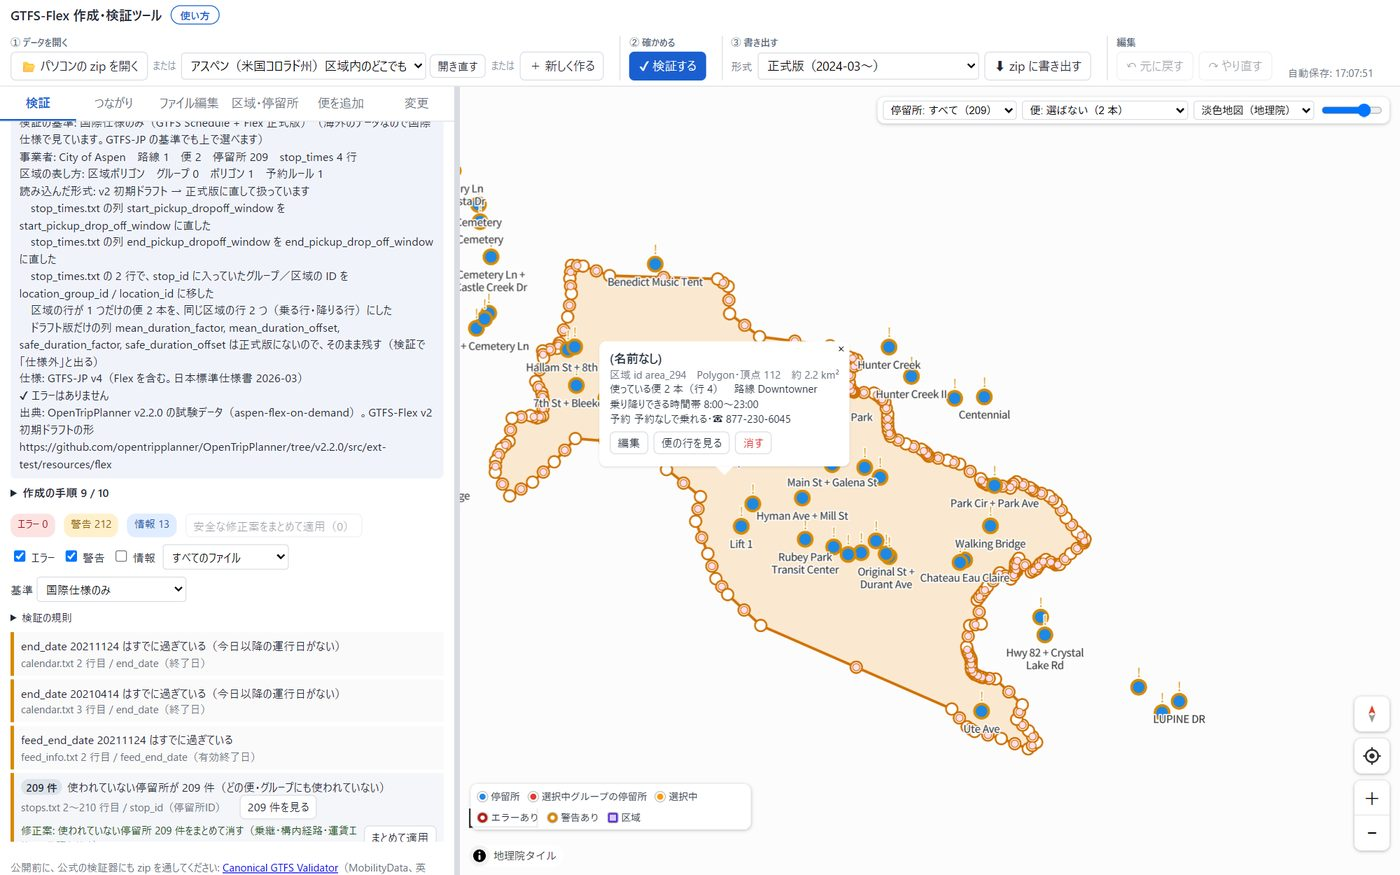
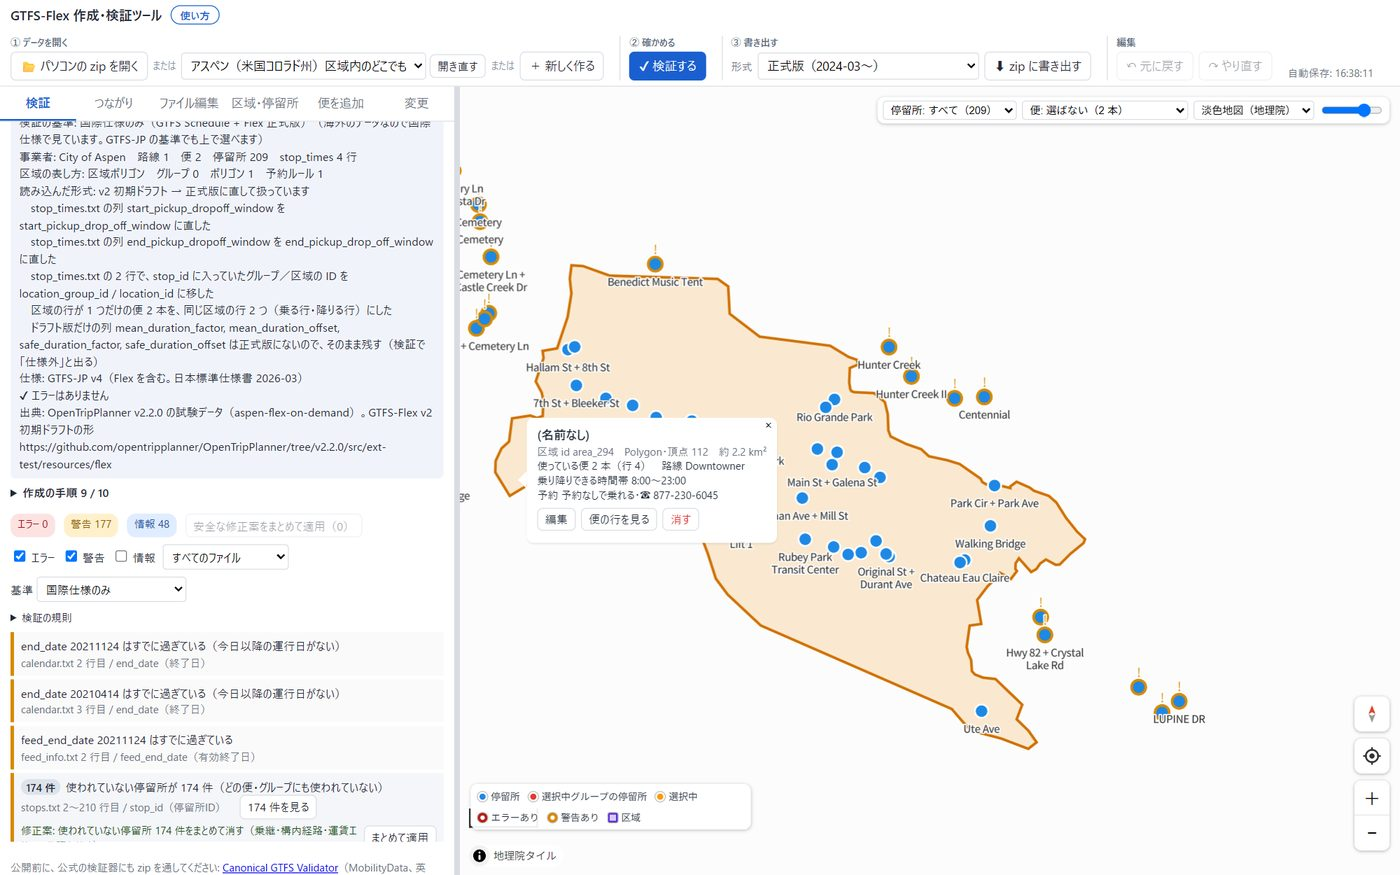
区域の頂点は形を直すときだけ

diff --git a/js/app.js b/js/app.js
@@ -45,7 +45,7 @@
       S.feed.locations.features.push({ type: 'Feature', id, properties: { stop_name: '新しい区域' }, geometry: { type: 'Polygon', coordinates: [ccw(ring)] } });
       S.loc = S.feed.locations.features.length - 1;
       changed(); renderZones(); refreshMap();
-      $('#btnLocDraw').classList.remove('on');
+      M.setMode('editShape'); // 描き終えたら、そのまま頂点を出して形を直せるように（Esc か「形を直す」で終わる）
     },
     onVertexMoved(ring, index, ll, done) {
       const f = S.feed.locations && S.feed.locations.features[S.loc]; if (!f) return;
@@ -82,9 +82,10 @@
   $('#map').appendChild(modeBadge);
   $('#map').addEventListener('modechange', e => {
     const m = e.detail;
-    const text = { freehand: '区域をなぞって描きます: 左ボタンを押したまま（指 1 本で）外周をなぞり、離すと頂点に変わります。Esc で中止', draw: '区域を描いています: クリックで頂点、ダブルクリックか Enter で確定、Esc で中止', addStop: '地図をクリックした所に停留所を追加します', moveStop: '停留所をドラッグして動かせます', pickStops: '停留所をクリックするとグループに出し入れします' }[m];
+    if (m !== 'editShape') closeVertPopup();
+    const text = { editShape: '区域の形を直しています: 頂点をドラッグで動かす・辺の真ん中の点を押して頂点を足す・頂点を押して消す。Esc か「形を直す」で終わる', freehand: '区域をなぞって描きます: 左ボタンを押したまま（指 1 本で）外周をなぞり、離すと頂点に変わります。Esc で中止', draw: '区域を描いています: クリックで頂点、ダブルクリックか Enter で確定、Esc で中止', addStop: '地図をクリックした所に停留所を追加します', moveStop: '停留所をドラッグして動かせます', pickStops: '停留所をクリックするとグループに出し入れします' }[m];
     modeBadge.style.display = text ? 'block' : 'none'; modeBadge.textContent = text || '';
-    for (const [id, mode] of [['#btnLocDraw', 'draw'], ['#btnLocFree', 'freehand'], ['#btnStopAdd', 'addStop'], ['#btnStopMove', 'moveStop'], ['#btnPickStops', 'pickStops']]) $(id).classList.toggle('on', m === mode);
+    for (const [id, mode] of [['#btnLocDraw', 'draw'], ['#btnLocFree', 'freehand'], ['#btnLocEdit', 'editShape'], ['#btnStopAdd', 'addStop'], ['#btnStopMove', 'moveStop'], ['#btnPickStops', 'pickStops']]) $(id).classList.toggle('on', m === mode);
   });
   function toggleMode(m) { M.setMode(M.getMode() === m ? 'none' : m); }
 
@@ -318,6 +319,7 @@
       const conv = window.FlexVersions.toCanonical(feed);
       feed.flexVersion = conv.version; feed.conversionNotes = conv.notes;
     }
+    if (M.getMode() !== 'none') M.setMode('none'); // 描く・形を直すなどの途中で別のデータを開いたら終える
     S.feed = feed; S.name = name; S.dirty = false; S.hlRow = null; S.page = 0; S.filter = '';
     closePopups(); // 前のデータの吹き出しを残さない
     S.stopView = 'all'; S.viewTrip = '';
@@ -1270,6 +1272,7 @@
   $('#locSelect').addEventListener('change', e => { S.loc = +e.target.value; renderZones(); refreshMap(false); const f = S.feed.locations.features[S.loc]; if (f) M.fitTo([f]); });
   $('#btnLocDraw').addEventListener('click', () => { if (!S.feed) return; toggleMode('draw'); });
   $('#btnLocFree').addEventListener('click', () => { if (!S.feed) return; toggleMode('freehand'); });
+  $('#btnLocEdit').addEventListener('click', () => { if (!S.feed) return; if (M.getMode() !== 'editShape' && !(S.feed.locations && S.feed.locations.features[S.loc])) { alert('形を直す区域を選んでください（区域の選択欄か、地図で区域を押す）'); return; } toggleMode('editShape'); });
   $('#btnLocDel').addEventListener('click', () => { if (S.feed && S.feed.locations) deleteLocation(S.loc); });
   $('#btnStopAdd').addEventListener('click', () => { if (!S.feed) return; toggleMode('addStop'); if (M.getMode() === 'addStop') { S.stop = null; if (stopPopup) { stopPopup.remove(); stopPopup = null; } refreshMap(false); } renderStopForm(); });
   $('#map').addEventListener('modechange', () => { renderStopForm(); if (S.feed && (S.stopView !== 'all' || S.viewTrip)) refreshMap(false); });
@@ -1361,7 +1364,7 @@
   }
   document.addEventListener('keydown', e => {
     const tg = e.target && e.target.tagName;
-    if ((e.key === 'Delete' || e.key === 'Backspace') && M.state.selVert && M.getMode() === 'none' && !/^(INPUT|TEXTAREA|SELECT)$/.test(tg || '') && !(e.target && e.target.isContentEditable)) {
+    if ((e.key === 'Delete' || e.key === 'Backspace') && M.state.selVert && M.getMode() === 'editShape' && !/^(INPUT|TEXTAREA|SELECT)$/.test(tg || '') && !(e.target && e.target.isContentEditable)) {
       if (deleteVertex(M.state.selVert.ring, M.state.selVert.index)) e.preventDefault();
     }
   });

diff --git a/index.html b/index.html
@@ -5,7 +5,7 @@
 <meta name="viewport" content="width=device-width, initial-scale=1">
 <title>GTFS-Flex 作成・検証ツール</title>
 <link rel="stylesheet" href="https://cdnjs.cloudflare.com/ajax/libs/maplibre-gl/4.7.1/maplibre-gl.min.css">
-<link rel="stylesheet" href="css/style.css?v=e1486c1-mvc2zatu">
+<link rel="stylesheet" href="css/style.css?v=76a890c-mvc34z37">
 </head>
 <body>
 <header class="topbar">
@@ -137,10 +137,11 @@
         <select id="locSelect"></select>
         <button id="btnLocDraw" class="btn small toggle" title="地図をクリックした所を頂点にする（ダブルクリックか Enter で確定）">地図に描く</button>
         <button id="btnLocFree" class="btn small toggle" title="左ボタンを押したまま外周をなぞる。離すと頂点に変わる">なぞって描く</button>
+        <button id="btnLocEdit" class="btn small toggle" title="選んでいる区域の頂点を出して、動かす・足す・消す（Esc で終わる）">形を直す</button>
         <button id="btnLocDel" class="btn small danger">削除</button>
       </div>
       <div id="locForm" class="form"></div>
-      <p class="muted small">描く: 地図をクリックして頂点を置き、ダブルクリックか Enter で確定（Esc で中止）。なぞって描く: 左ボタンを押したまま外周をなぞり、離すと頂点に変わる。直す: 頂点をドラッグして動かす。辺の真ん中の小さな点を押す（ドラッグ）と頂点を足す。頂点を押すと出る「この頂点を消す」で消す（右クリック・Delete キーでも）。</p>
+      <p class="muted small">描く: 地図をクリックして頂点を置き、ダブルクリックか Enter で確定（Esc で中止）。なぞって描く: 左ボタンを押したまま外周をなぞり、離すと頂点に変わる。形を直す: 「形を直す」を押すと頂点が出る（描き終えた直後も出る。Esc で終わる）。頂点をドラッグして動かす。辺の真ん中の小さな点を押す（ドラッグ）と頂点を足す。頂点を押すと出る「この頂点を消す」で消す（右クリック・Delete キーでも）。</p>
 
       <h3>停留所（stops）</h3>
       <div class="row"><label>停留所を探す <input id="stopFind" list="dl-stops_txt" placeholder="名前か ID"></label></div>
@@ -228,15 +229,15 @@
 
 <script src="https://cdnjs.cloudflare.com/ajax/libs/jszip/3.10.1/jszip.min.js"></script>
 <script src="https://cdnjs.cloudflare.com/ajax/libs/maplibre-gl/4.7.1/maplibre-gl.min.js"></script>
-<script src="js/spec.js?v=e1486c1-mvc2zatu"></script>
-<script src="js/gtfs.js?v=e1486c1-mvc2zatu"></script>
-<script src="js/versions.js?v=e1486c1-mvc2zatu"></script>
-<script src="js/validate.js?v=e1486c1-mvc2zatu"></script>
-<script src="js/map.js?v=e1486c1-mvc2zatu"></script>
-<script src="js/odpt.js?v=e1486c1-mvc2zatu"></script>
-<script src="js/store.js?v=e1486c1-mvc2zatu"></script>
-<script src="js/diff.js?v=e1486c1-mvc2zatu"></script>
-<script src="js/graph.js?v=e1486c1-mvc2zatu"></script>
-<script src="js/app.js?v=e1486c1-mvc2zatu"></script>
+<script src="js/spec.js?v=76a890c-mvc34z37"></script>
+<script src="js/gtfs.js?v=76a890c-mvc34z37"></script>
+<script src="js/versions.js?v=76a890c-mvc34z37"></script>
+<script src="js/validate.js?v=76a890c-mvc34z37"></script>
+<script src="js/map.js?v=76a890c-mvc34z37"></script>
+<script src="js/odpt.js?v=76a890c-mvc34z37"></script>
+<script src="js/store.js?v=76a890c-mvc34z37"></script>
+<script src="js/diff.js?v=76a890c-mvc34z37"></script>
+<script src="js/graph.js?v=76a890c-mvc34z37"></script>
+<script src="js/app.js?v=76a890c-mvc34z37"></script>
 </body>
 </html>

diff --git a/manual.html b/manual.html
@@ -108,7 +108,7 @@ a { color: var(--accent); }
     <li>停留所は、<span class="btn">地図をクリックして追加</span> を押してから地図をクリックした所に置きます。<span class="btn">ドラッグで移動</span> で動かせます</li>
     <li>停留所グループに停留所を出し入れするには、<span class="btn">地図で停留所を出し入れ</span> を押して地図の停留所をクリック。<span class="btn">全停留所を入れる</span>・<span class="btn">空にする</span> もあります</li>
     <li>区域ポリゴンは <span class="btn">地図に描く</span> でクリックした所が頂点になり、ダブルクリックか Enter で確定。<span class="btn">なぞって描く</span> なら、左ボタンを押したまま（タブレットは指 1 本で）外周をなぞり、離すと線を間引いた頂点に変わります。</li>
-    <li>区域の形を直すときは、頂点（白い丸）をドラッグして動かします。辺の真ん中の小さな点を押すと、そこに頂点が足されます（ドラッグしても足せます）。頂点を押すと吹き出しが出て、<span class="btn">この頂点を消す</span> で消せます（右クリック・Delete キーでも）。外周は 3 点より少なくできません頂点はドラッグで動かし、辺の中ほどの点で頂点を足せます</li>
+    <li>区域を選んだだけでは、区域の範囲（塗りと線）だけが出ます。形を直すときは <span class="btn">形を直す</span> を押すと頂点が出ます（描き終えた直後も出たままです）。Esc かもう一度押すと終わります。頂点（白い丸）をドラッグして動かします。辺の真ん中の小さな点を押すと、そこに頂点が足されます（ドラッグしても足せます）。頂点を押すと吹き出しが出て、<span class="btn">この頂点を消す</span> で消せます（右クリック・Delete キーでも）。外周は 3 点より少なくできません頂点はドラッグで動かし、辺の中ほどの点で頂点を足せます</li>
   </ul>
   <figure><img src="manual/06_zones.jpg" alt="区域・停留所タブと、地図で停留所を押したときの吹き出し" loading="lazy"><figcaption>停留所を押すと吹き出しに名前・所属グループ・指摘。編集・表で見る・消すもここから。消すとグループや便の参照も外します</figcaption></figure>
   <figure><img src="manual/13_freehand.jpg" alt="なぞって描いた区域ポリゴン。頂点が並び、選ばれている" loading="lazy"><figcaption>「なぞって描く」で外周をなぞったところ。離すと線が頂点（だいだいの点）に変わり、頂点をドラッグして形を直せます</figcaption></figure>

diff --git a/js/map.js b/js/map.js
@@ -119,6 +119,7 @@
         if (e.key === 'Enter' && state.mode === 'draw') finishDraw();
         if (e.key === 'Escape' && state.mode === 'draw') { state.draft = []; renderDraft(); setMode('none'); }
         if (e.key === 'Escape' && state.mode === 'freehand') { fh.pts = null; renderDraft(); setMode('none'); }
+        if (e.key === 'Escape' && state.mode === 'editShape') setMode('none');
         if (e.key === 'Backspace' && state.mode === 'draw' && document.activeElement === document.body) { state.draft.pop(); renderDraft(); }
       });
 
@@ -157,8 +158,9 @@
     }
 
     function finishDraw() {
-      if (state.draft.length >= 3) { const ring = state.draft.slice(); ring.push(ring[0].slice()); H.onPolygonDone(ring); }
+      const ring = state.draft.length >= 3 ? state.draft.concat([state.draft[0].slice()]) : null;
       state.draft = []; renderDraft(); setMode('none');
+      if (ring) H.onPolygonDone(ring); // 描き終えたら、続けて形を直せるようにする（画面側で「形を直す」にする）
     }
     // ---- なぞって描く ----
     // 左ボタンを押したまま（指 1 本で）外周をなぞり、離すと、線を間引いて頂点に変える（画面で 3 ピクセルより小さいぶれは省く）
@@ -219,6 +221,8 @@
       // なぞって描く間は、左ドラッグ（指 1 本）を線を引く操作にする。右ドラッグの回転・ホイールの拡大縮小はそのまま
       if (m === 'freehand') map.dragPan.disable(); else if (prev === 'freehand') { fh.pts = null; map.dragPan.enable(); }
       if (m !== 'draw') { state.draft = []; renderDraft(); }
+      if (m !== 'editShape') state.selVert = null;
+      renderVerts();
       container.dispatchEvent(new CustomEvent('modechange', { detail: m }));
     }
 
@@ -249,9 +253,13 @@
       const src = map.getSource('locations'); if (src) src.setData({ type: 'FeatureCollection', features: feats });
       renderVerts(fc);
     }
+    // 頂点と辺の真ん中の点は、「形を直す」（editShape）の間だけ出す。ふだんは区域の範囲（塗りと線）だけ
+    let lastFc = null;
     function renderVerts(fc) {
       const src = map.getSource('verts'); if (!src) return;
-      const f = fc && fc.features && fc.features[state.selectedFeature];
+      if (fc !== undefined) lastFc = fc; fc = lastFc;
+      if (state.mode === 'draw') return; // 描いている間は描きかけの頂点を出す（renderDraft）
+      const f = state.mode === 'editShape' && fc && fc.features && fc.features[state.selectedFeature];
       if (!f || !f.geometry || f.geometry.type !== 'Polygon') { src.setData(empty()); return; }
       const feats = [];
       f.geometry.coordinates.forEach((ring, ri) => {

diff --git a/README.md b/README.md
@@ -9,4 +9,4 @@ https://tyra0119.github.io/pj_gtfs/ （使い方: https://tyra0119.github.io/pj_
 - サンプル: 公共交通オープンデータセンター（CC BY 4.0）
 - 準拠: GTFS Schedule 仕様（gtfs.org）、国土交通省 COMmmmONS「GTFS-JP 4.0 ガイドライン」第3部 Flex 拡張
 
-版: e1486c1-mvc2zatu
+版: 76a890c-mvc34z37
